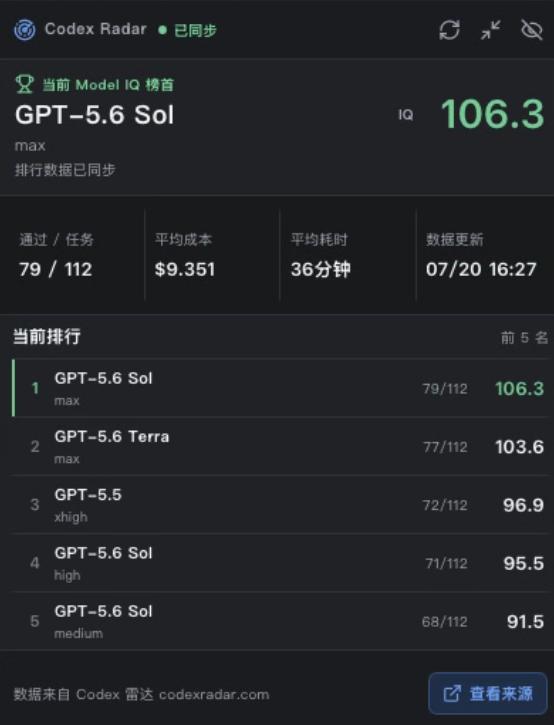
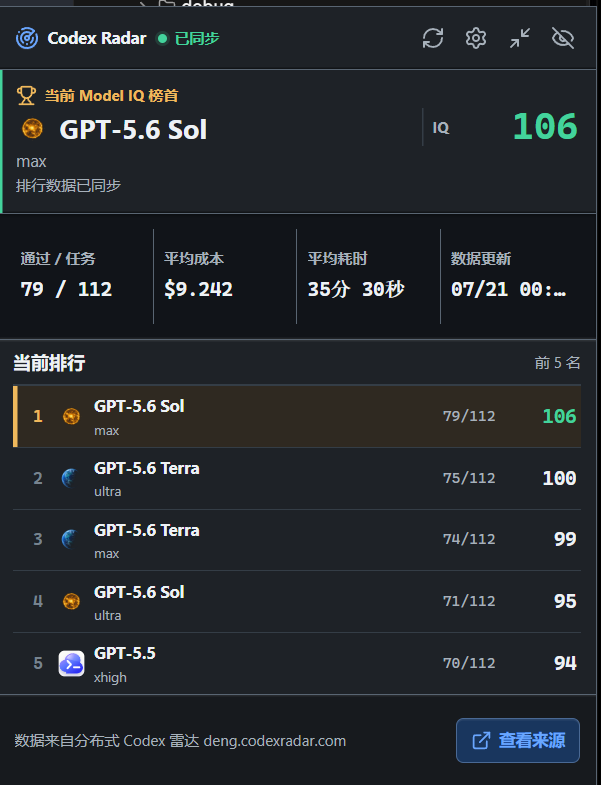
docs: refresh README screenshots

diff --git a/README.md b/README.md
@@ -4,11 +4,13 @@ Model Radar 是一个基于 Tauri 2、React 和 TypeScript 的 Windows/macOS 桌
 
 ## 界面预览
 
-![菜单栏状态项](docs/images/menu-bar-status.png)
+![紧凑悬浮窗](docs/images/compact-window.png)
 
 ![详情窗口](docs/images/detail-window.png)
 
-![右键控制菜单](docs/images/control-menu.png)
+![任务栏状态项](docs/images/taskbar-status.png)
+
+![菜单栏弹窗](docs/images/menu-popover.png)
 
 - Windows：在主任务栏通知区域左侧嵌入榜首模型与 IQ；点击打开详情，右键显示共享控制菜单。
 - macOS：使用原生菜单栏状态项标题显示榜首模型与 IQ；点击打开详情，右键显示共享控制菜单。